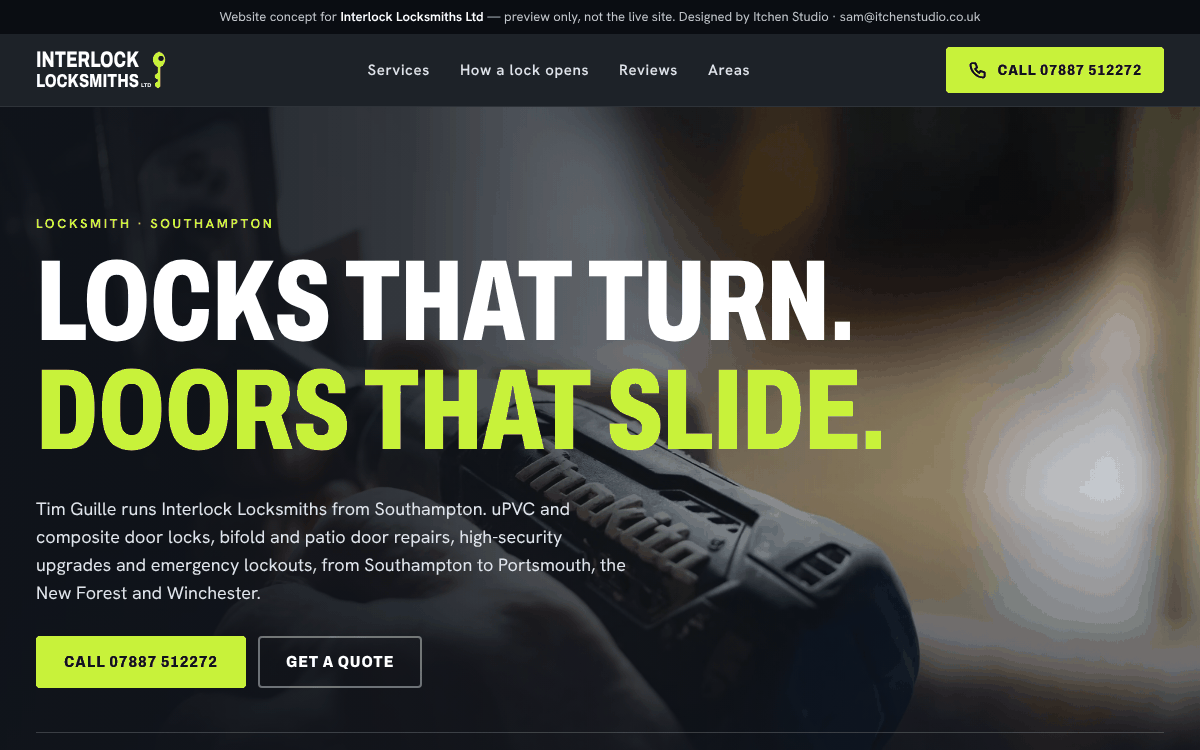
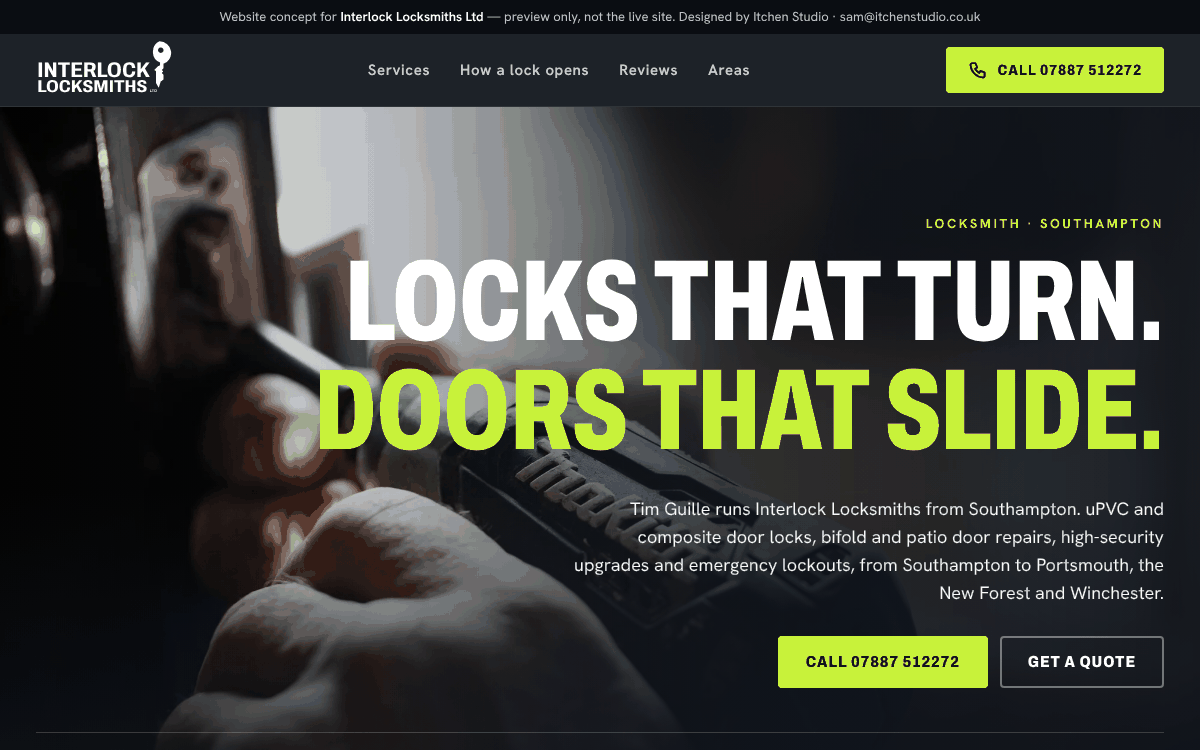
Mock-up: Interlock Locksmiths Ltd v2
Claude-Session: https://claude.ai/code/session_0179TE6Daz6n1qD97i41q7t6

diff --git a/interlock-locksmiths-ltd-g9zktc/index.html b/interlock-locksmiths-ltd-g9zktc/index.html
@@ -60,27 +60,27 @@ h3{margin:0}
 .top.away{transform:translateY(-100%)}
 .top .wrap{display:flex;align-items:center;justify-content:space-between;gap:20px;height:72px}
 .logo{display:block;color:#fff;text-decoration:none}
-.logo svg{height:46px;width:auto;display:block}
+.logo svg{height:60px;width:auto;display:block}
 .top nav{display:flex;gap:30px}
 .top nav a{color:#d7deea;text-decoration:none;font:600 15px/1 var(--body);letter-spacing:.04em;padding:12px 0}
 .top nav a:hover{color:var(--lime)}
 .top .btn{min-height:46px;padding:0 20px;font-size:15px}
 @media (max-width:900px){.top nav{display:none}}
-@media (max-width:420px){.top .btn .num{display:none}.logo svg{height:40px}}
+@media (max-width:420px){.top .btn .num{display:none}.logo svg{height:48px}}
 
 /* hero */
 .hero{position:relative;min-height:min(94vh,900px);display:flex;align-items:flex-end;background:var(--ink);color:#fff;overflow:hidden}
 .hero .bg{position:absolute;inset:0}
-.hero .bg img{width:100%;height:100%;object-fit:cover;object-position:62% 50%}
-.hero .bg::after{content:"";position:absolute;inset:0;background:linear-gradient(90deg,#10141bf5 0%,#10141bd9 34%,#10141b66 66%,#10141b1a 100%),linear-gradient(0deg,#10141bf0 0%,#10141b00 46%)}
+.hero .bg img{width:100%;height:100%;object-fit:cover;object-position:38% 50%}
+.hero .bg::after{content:"";position:absolute;inset:0;background:linear-gradient(270deg,#10141bf2 0%,#10141bd0 40%,#10141b4d 66%,#10141b00 100%),linear-gradient(0deg,#10141bf0 0%,#10141b00 46%)}
 .hero .wrap{position:relative;width:100%;padding-block:110px 40px}
-.hero h1{font-size:clamp(50px,9.6vw,172px);margin:20px 0 0;max-width:12em}
+.hero .wrap{text-align:right}.hero h1{font-size:clamp(50px,9.6vw,172px);margin:20px 0 0 auto;max-width:12em}
 .hero h1 .ln{display:block;overflow:hidden;padding-bottom:.05em}
 .hero h1 .ln>span{display:inline-block}
 .hero h1 .lm{color:var(--lime)}
-.hero .lead{font-size:clamp(17px,1.5vw,21px);line-height:1.55;max-width:33em;margin-top:26px;color:#dde4ee}
-.hero .ctas{display:flex;flex-wrap:wrap;gap:12px;margin-top:30px}
-.proof{display:flex;flex-wrap:wrap;gap:10px 34px;margin-top:44px;padding-top:22px;border-top:1px solid #ffffff2e;font-size:15px;color:#dde4ee}
+.hero .lead{font-size:clamp(17px,1.5vw,21px);line-height:1.55;max-width:33em;margin:26px 0 0 auto;color:#dde4ee}
+.hero .ctas{display:flex;flex-wrap:wrap;gap:12px;margin-top:30px;justify-content:flex-end}
+.proof{display:flex;flex-wrap:wrap;justify-content:flex-end;gap:10px 34px;margin-top:44px;padding-top:22px;border-top:1px solid #ffffff2e;font-size:15px;color:#dde4ee}
 .proof b{color:#fff;font:800 22px/1 var(--display);font-stretch:80%;margin-right:8px;letter-spacing:.02em}
 .proof span{display:inline-flex;align-items:baseline}
 .hero .lbl{color:var(--lime)}
@@ -244,7 +244,7 @@ html:not(.motion) .stage{opacity:1}
 /* contact + footer */
 .foot{background:var(--steel-deep);color:#fff;padding-block:90px 36px}
 .foot .row{display:grid;grid-template-columns:minmax(0,1.3fr) repeat(2,minmax(0,1fr));gap:48px}
-.foot .logo svg{height:74px}
+.foot .logo svg{height:96px}
 .foot h4{margin:0 0 16px;font:700 13px/1 var(--body);letter-spacing:.2em;text-transform:uppercase;color:var(--lime)}
 .foot p,.foot li{color:#dce6f9;font-size:16px}
 .foot ul{list-style:none;margin:0;padding:0;display:grid;gap:8px}
@@ -263,20 +263,19 @@ html:not(.motion) .stage{opacity:1}
 <div class="concept" role="note">Website concept for <b>Interlock Locksmiths Ltd</b> — preview only, not the live site. Designed by Itchen Studio · sam@itchenstudio.co.uk</div>
 
 <svg width="0" height="0" style="position:absolute" aria-hidden="true" focusable="false">
-  <symbol id="logo" viewBox="0 0 420 142">
-    <text x="0" y="62" font-family="Archivo, Arial, sans-serif" font-weight="800" font-size="70" textLength="318" lengthAdjust="spacingAndGlyphs" fill="currentColor" style="font-stretch:100%">INTERLOCK</text>
-    <text x="0" y="124" font-family="Archivo, Arial, sans-serif" font-weight="800" font-size="58" textLength="318" lengthAdjust="spacingAndGlyphs" fill="currentColor" style="font-stretch:100%">LOCKSMITHS</text>
-    <text x="324" y="124" font-family="Archivo, Arial, sans-serif" font-weight="700" font-size="17" fill="currentColor">LTD</text>
-    <g class="keyg">
-      <path d="M386 14c-14 0-25 11-25 25 0 10 6 19 15 23v18l-9 6v9l9 5v6l-8 6v10l9 5 7-5V62c9-4 15-13 15-23 0-14-11-25-25-25z" fill="#c8f23a"/>
-      <circle cx="386" cy="35" r="8" fill="#10141b"/>
+  <symbol id="logo" viewBox="0 0 400 176">
+    <g fill="currentColor" font-family="Archivo, 'Arial Narrow', sans-serif" font-weight="650" style="font-variation-settings:'wdth' 66">
+      <text x="4" y="108" font-size="62" textLength="330" lengthAdjust="spacingAndGlyphs">INTERLOCK</text>
+      <text x="4" y="152" font-size="50" textLength="322" lengthAdjust="spacingAndGlyphs">LOCKSMITHS</text>
+      <text x="334" y="152" font-size="11" font-weight="600" style="font-variation-settings:'wdth' 100;letter-spacing:.04em">LTD</text>
     </g>
+    <path class="keyg" fill="currentColor" fill-rule="evenodd" d="M362 4a34 34 0 0 1 12 66v-0 13l-5 5 4 4-4 5 5 5v14l-8 6-6 18-8-14V92l-5-4 5-5 5-5 7-4v-8A34 34 0 0 1 362 4zM366 22a8 8 0 1 0 .1 0z"/>
   </symbol>
 </svg>
 
 <header class="top">
   <div class="wrap">
-    <a class="logo" href="#top" aria-label="Interlock Locksmiths Ltd, home"><svg viewBox="0 0 420 142" role="img" aria-hidden="true"><use href="#logo"/></svg></a>
+    <a class="logo" href="#top" aria-label="Interlock Locksmiths Ltd, home"><svg viewBox="0 0 400 176" role="img" aria-hidden="true"><use href="#logo"/></svg></a>
     <nav aria-label="Main"><a href="#services">Services</a><a href="#key">How a lock opens</a><a href="#reviews">Reviews</a><a href="#areas">Areas</a></nav>
     <a class="btn" href="tel:07887512272"><svg viewBox="0 0 24 24" fill="none" stroke="currentColor" stroke-width="2.4" stroke-linecap="round" stroke-linejoin="round" aria-hidden="true"><path d="M5 4h4l2 5-2.5 1.5a11 11 0 0 0 5 5L15 13l5 2v4a2 2 0 0 1-2 2A16 16 0 0 1 3 6a2 2 0 0 1 2-2z"/></svg><span>Call <span class="num">07887 512272</span></span></a>
   </div>
@@ -405,7 +404,7 @@ html:not(.motion) .stage{opacity:1}
 <footer class="foot">
   <div class="wrap">
     <div class="row">
-      <div><a class="logo" href="#top" aria-label="Interlock Locksmiths Ltd, back to top"><svg viewBox="0 0 420 142" aria-hidden="true"><use href="#logo"/></svg></a><p style="margin-top:20px;max-width:24em">Locksmith, uPVC and bifold door specialist, Southampton.</p></div>
+      <div><a class="logo" href="#top" aria-label="Interlock Locksmiths Ltd, back to top"><svg viewBox="0 0 400 176" aria-hidden="true"><use href="#logo"/></svg></a><p style="margin-top:20px;max-width:24em">Locksmith, uPVC and bifold door specialist, Southampton.</p></div>
       <div><h4>Get in touch</h4><a class="tel" href="tel:07887512272">07887 512272</a><p><a href="mailto:info@interlocklocksmiths.co.uk">info@interlocklocksmiths.co.uk</a></p></div>
       <div><h4>Covering</h4><ul><li>Southampton</li><li>Portsmouth</li><li>New Forest</li><li>Winchester</li></ul></div>
     </div>
